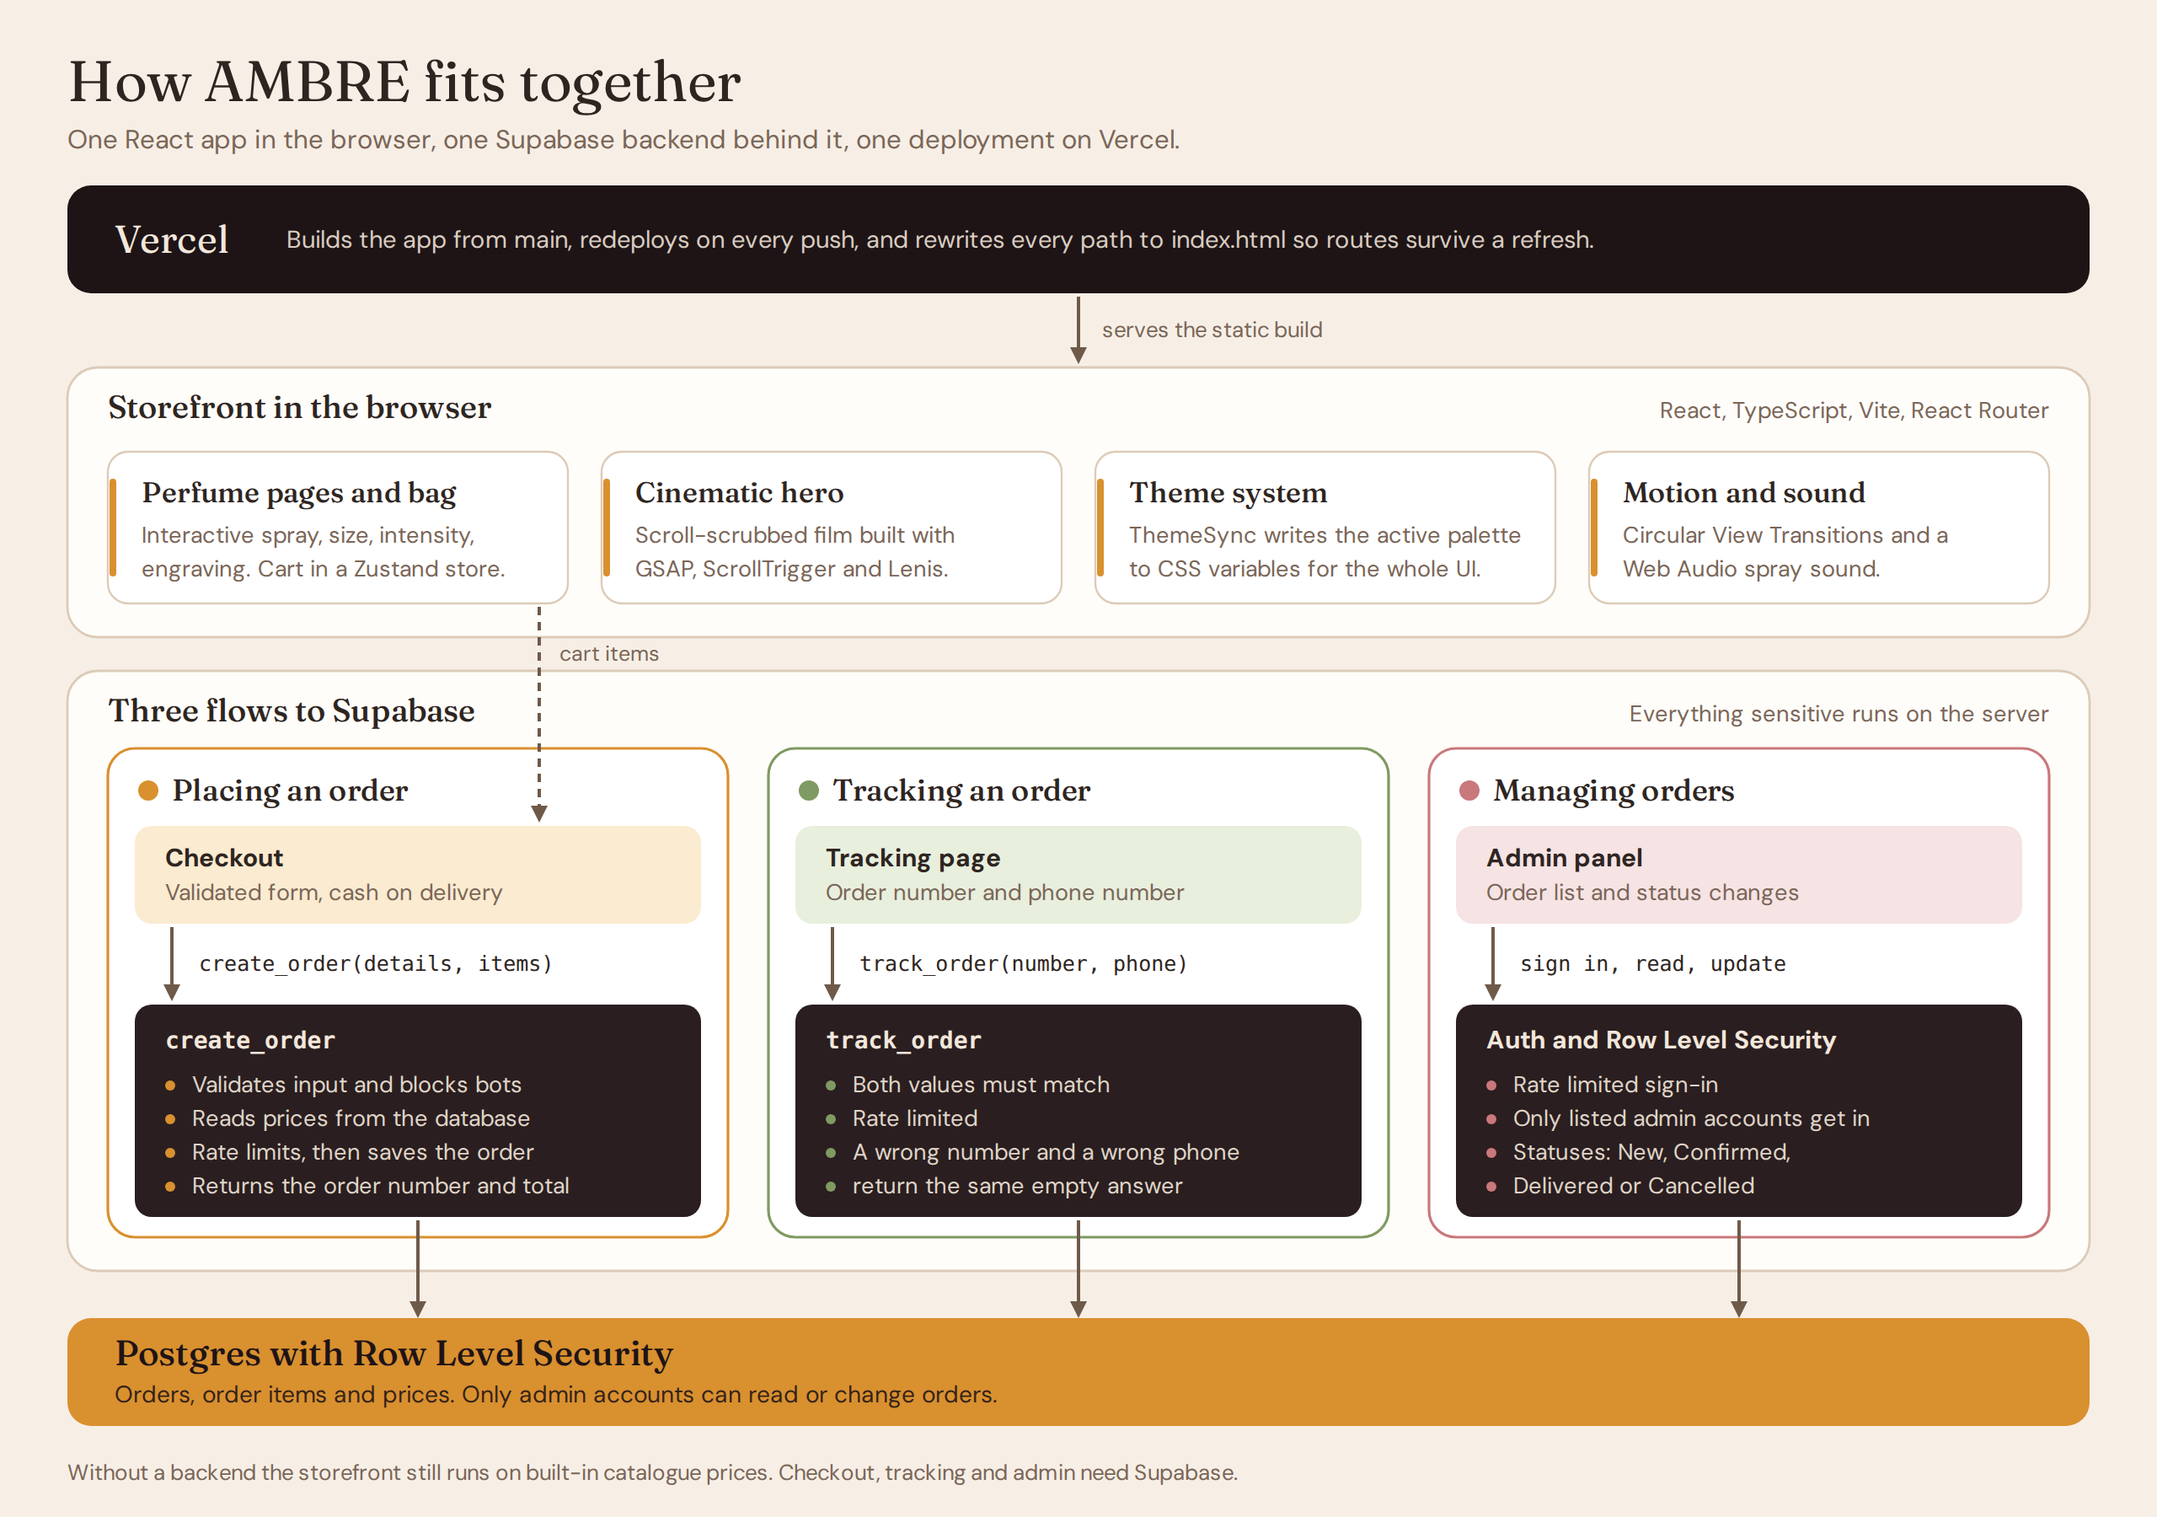
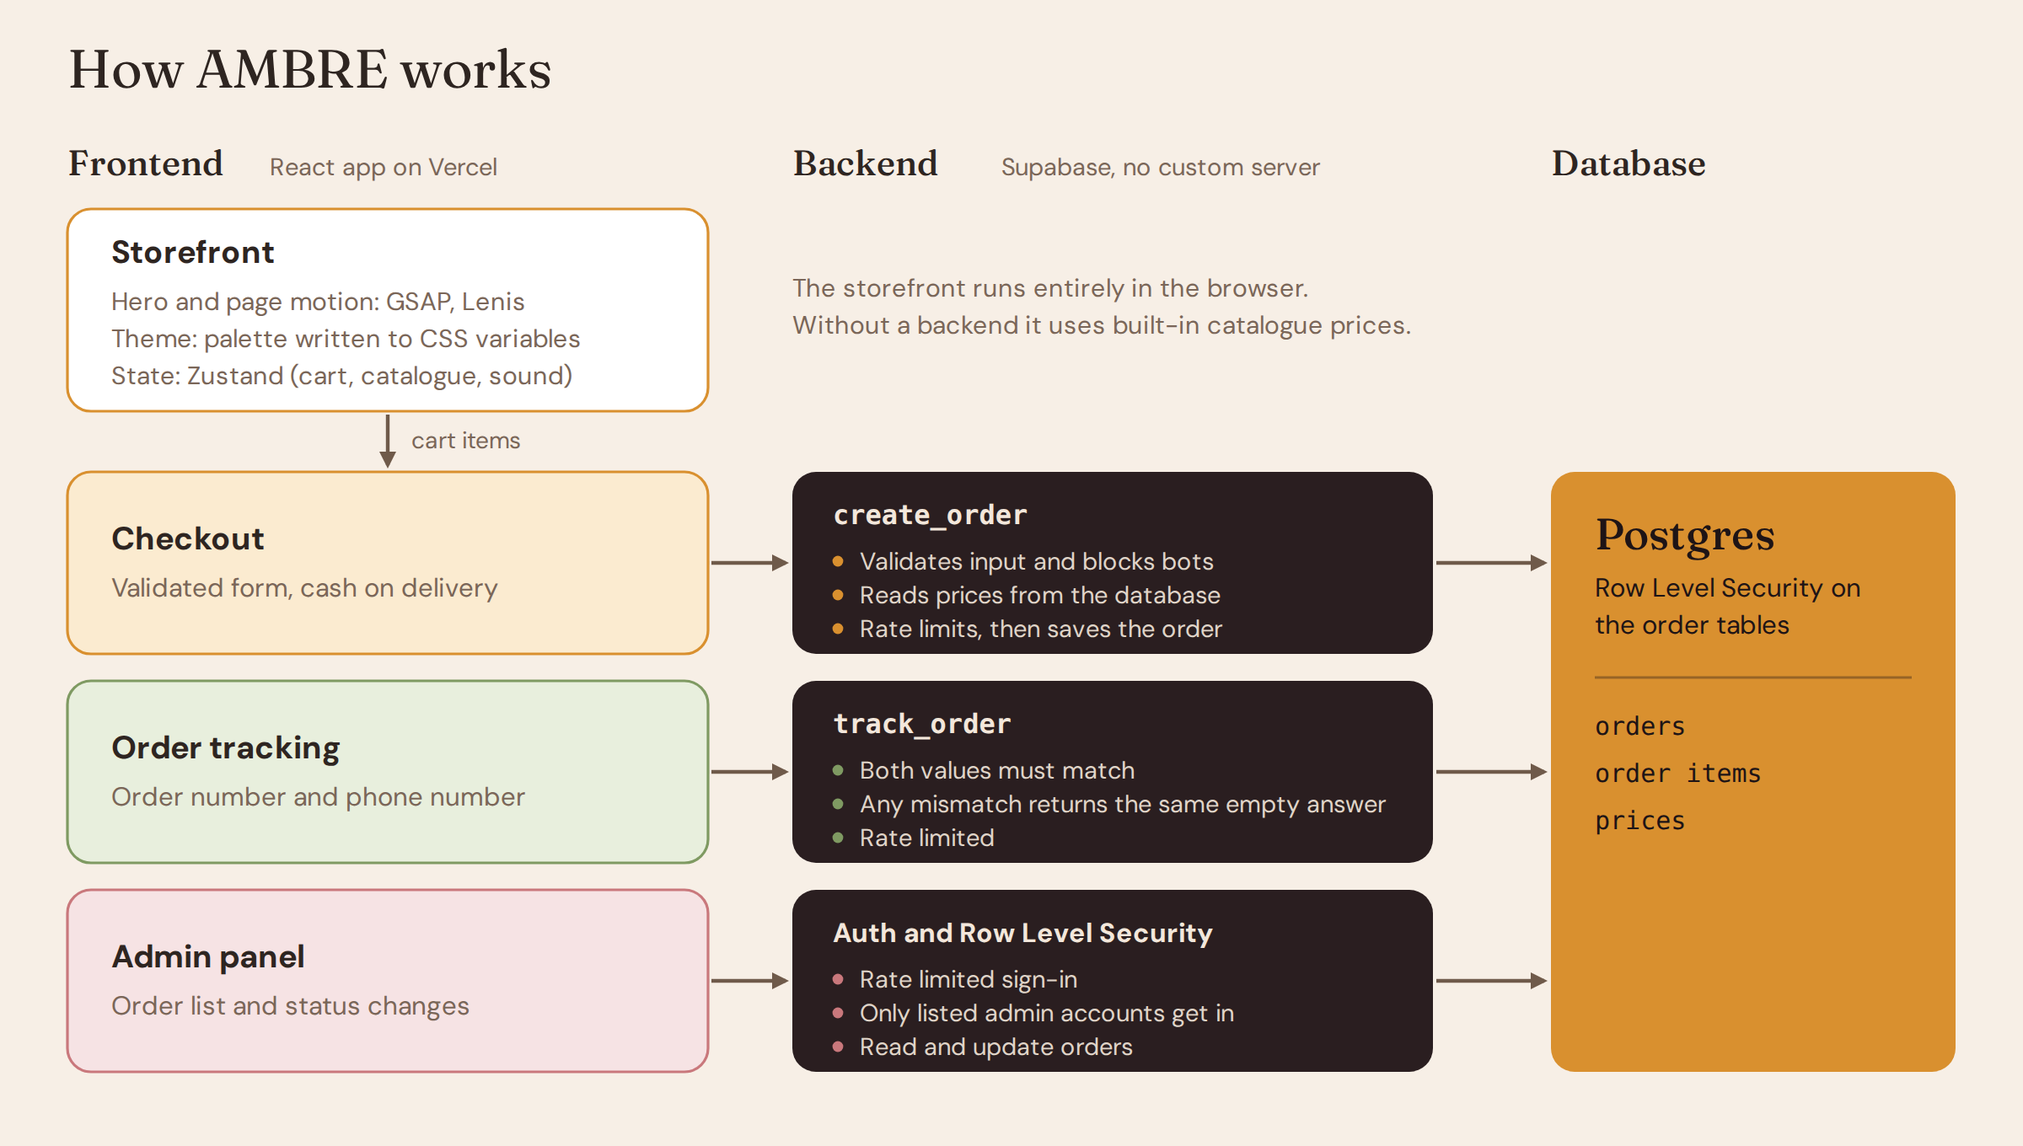
Simplify README and add architecture diagram and demo video

diff --git a/README.md b/README.md
@@ -1,41 +1,31 @@
-
-
-https://github.com/user-attachments/assets/c31eba6f-9962-43fe-9fb8-ec71fe18d07f
-
 <div align="center">
 
+# AMBRE
+
+*Four perfumes, each with its own colour, mood and story.*
+
+A full-stack perfume storefront with a scroll-driven cinematic front end<br />and a secure, server-side order pipeline.
+
 <a href="https://perfumes-website-three.vercel.app">
-  <img src="docs/brand/banner.png" alt="AMBRE: four perfumes, each with its own colour, mood and story" width="100%" />
+  <img src="https://img.shields.io/badge/Live_demo-perfumes--website--three.vercel.app-1E1416?style=for-the-badge&logo=vercel&logoColor=white" alt="Live demo" />
 </a>
 
 <br />
 <br />
 
-<p><b>A cinematic perfume storefront with a scroll-driven hero, a theme that changes with every perfume,<br />and a secure order pipeline behind it.</b></p>
-
-<p>
-  <a href="https://perfumes-website-three.vercel.app">
-    <img src="https://img.shields.io/badge/Live_demo-perfumes--website--three.vercel.app-1E1416?style=for-the-badge&logo=vercel&logoColor=white" alt="Live demo" />
-  </a>
-</p>
-
-<p>
-  <img src="https://img.shields.io/badge/React-61DAFB?style=flat-square&logo=react&logoColor=white" alt="React" />
-  <img src="https://img.shields.io/badge/TypeScript-3178C6?style=flat-square&logo=typescript&logoColor=white" alt="TypeScript" />
-  <img src="https://img.shields.io/badge/Vite-8-646CFF?style=flat-square&logo=vite&logoColor=white" alt="Vite" />
-  <img src="https://img.shields.io/badge/GSAP-88CE02?style=flat-square&logo=greensock&logoColor=black" alt="GSAP" />
-  <img src="https://img.shields.io/badge/Supabase-3ECF8E?style=flat-square&logo=supabase&logoColor=white" alt="Supabase" />
-  <img src="https://img.shields.io/badge/Vercel-000000?style=flat-square&logo=vercel&logoColor=white" alt="Vercel" />
-  <img src="https://img.shields.io/github/last-commit/omniaalessawy247-hash/perfumes-website?style=flat-square" alt="Last commit" />
-</p>
+<img src="https://img.shields.io/badge/React-61DAFB?style=flat-square&logo=react&logoColor=white" alt="React" />
+<img src="https://img.shields.io/badge/TypeScript-3178C6?style=flat-square&logo=typescript&logoColor=white" alt="TypeScript" />
+<img src="https://img.shields.io/badge/Vite-8-646CFF?style=flat-square&logo=vite&logoColor=white" alt="Vite" />
+<img src="https://img.shields.io/badge/GSAP-88CE02?style=flat-square&logo=greensock&logoColor=black" alt="GSAP" />
+<img src="https://img.shields.io/badge/Supabase-3ECF8E?style=flat-square&logo=supabase&logoColor=white" alt="Supabase" />
+<img src="https://img.shields.io/badge/Vercel-000000?style=flat-square&logo=vercel&logoColor=white" alt="Vercel" />
 
 <p>
   <a href="#overview">Overview</a> ·
   <a href="#demo">Demo</a> ·
   <a href="#screenshots">Screenshots</a> ·
-  <a href="#the-experience">Experience</a> ·
+  <a href="#features">Features</a> ·
   <a href="#architecture">Architecture</a> ·
-  <a href="#brand-identity">Brand</a> ·
   <a href="#getting-started">Getting started</a> ·
   <a href="#deployment">Deployment</a> ·
   <a href="#roadmap">Roadmap</a>
@@ -47,48 +37,13 @@ https://github.com/user-attachments/assets/c31eba6f-9962-43fe-9fb8-ec71fe18d07f
 
 ## Overview
 
-Most perfume sites show a grid of bottles and stop there. AMBRE treats each perfume as its own world. Opening the page plays a scroll-driven film in which the bottle opens, its notes burst out, and all four perfumes arrive together. From that point on, every perfume carries its own colour, mood and story through the rest of the site.
+AMBRE is a perfume storefront built as a complete product: a cinematic front end, and a small backend that handles orders securely. Four perfumes (AMBRE, WARD, OUD NUIT and JASMIN) each carry their own colour theme across the whole site. Visitors personalise a perfume and order it with cash on delivery, customers track their order, and the owner manages orders from a private admin panel.
 
-<div align="center">
+**Highlights**
 
-| Perfume | Mood | Top · Heart · Base |
-|:---|:---|:---|
-| **AMBRE** | A perfume that opens like golden hour. | Blood orange · Rose · Amber |
-| **WARD** | Soft petals, warm skin. | Pink pepper · Damask rose · White musk |
-| **OUD NUIT** | Smoke, velvet and midnight. | Amber · Oud · Vanilla |
-| **JASMIN** | Fresh petals after the rain. | Green leaves · Sambac jasmine · White musk |
-
-</div>
-
-<br />
-
-<table>
-<tr>
-<td width="33%" valign="top">
-
-**A film, not a hero image**
-
-The landing page is a pinned, scroll-scrubbed sequence built with GSAP and ScrollTrigger. The visitor scrolls and the bottle opens.
-
-</td>
-<td width="33%" valign="top">
-
-**One theme per perfume**
-
-Each perfume owns a palette. A single component writes it to CSS variables, so the header, buttons, glows and backgrounds re-colour together.
-
-</td>
-<td width="33%" valign="top">
-
-**Orders you can trust**
-
-The browser never writes an order. A server-side function validates the request, reads prices from the database and rate limits the caller.
-
-</td>
-</tr>
-</table>
-
-Behind the visuals it is a working shop: a cart, a checkout that creates real cash-on-delivery orders, order tracking for customers, and a private admin panel to process them.
+- **Front-end craft.** A pinned, scroll-scrubbed hero, a theme that changes with every perfume, an interactive spray with synced sound, and circular page transitions.
+- **Server-side trust.** Orders are validated and priced on the server. The browser cannot set a price.
+- **The full loop.** Browse, personalise, order, track and administer, end to end.
 
 <br />
 
@@ -108,157 +63,104 @@ Behind the visuals it is a working shop: a cart, a checkout that creates real ca
 
 <table>
 <tr>
-<td width="50%"><img src="docs/screenshots/perfume-ambr.png" width="100%" alt="AMBRE perfume page" /></td>
-<td width="50%"><img src="docs/screenshots/perfume-ward.png" width="100%" alt="WARD perfume page" /></td>
+<td width="20%"><img src="docs/screenshots/perfume-ambr.png" width="100%" alt="AMBRE perfume page" /></td>
+<td width="20%"><img src="docs/screenshots/perfume-ward.png" width="100%" alt="WARD perfume page" /></td>
+<td width="20%"><img src="docs/screenshots/perfume-oud-nuit.png" width="100%" alt="OUD NUIT perfume page" /></td>
+<td width="20%"><img src="docs/screenshots/perfume-jasmin.png" width="100%" alt="JASMIN perfume page" /></td>
+<td width="20%"><img src="docs/screenshots/checkout.png" width="100%" alt="Checkout" /></td>
 </tr>
 <tr>
 <td align="center"><sub><b>AMBRE</b></sub></td>
 <td align="center"><sub><b>WARD</b></sub></td>
-</tr>
-<tr>
-<td width="50%"><img src="docs/screenshots/perfume-oud-nuit.png" width="100%" alt="OUD NUIT perfume page" /></td>
-<td width="50%"><img src="docs/screenshots/perfume-jasmin.png" width="100%" alt="JASMIN perfume page" /></td>
-</tr>
-<tr>
 <td align="center"><sub><b>OUD NUIT</b></sub></td>
 <td align="center"><sub><b>JASMIN</b></sub></td>
+<td align="center"><sub><b>Checkout</b></sub></td>
 </tr>
 </table>
 
-<div align="center">
-  <img src="docs/screenshots/checkout.png" width="50%" alt="Checkout" />
-  <br /><sub><b>Checkout</b></sub>
-</div>
-
 <br />
 
-## The experience
+## Features
 
-| Stage | What happens |
-|:---|:---|
-| **Hero** | A pinned, scroll-scrubbed film. The bottle opens, notes burst out and are named, then all four perfumes arrive and write *Four perfumes. Four moods.* |
-| **Collection** | The four perfumes, each previewed in its own colours. Moving between them re-colours the whole interface, and pages change with a circular View Transition. |
-| **Perfume page** | Tap the bottle to spray. The mist and the sound start on the same beat, rapid taps layer, and sound can be muted from the header. |
-| **Personalise** | Choose a size, set the intensity (Eau Fraîche, Eau de Parfum or Extrait), and add an engraving or gift wrap. |
-| **Bag and checkout** | A slide-in bag, a validated checkout and cash-on-delivery orders. |
-| **Tracking** | Customers look up an order with the order number and phone number together. |
-| **Admin** | The owner signs in, sees every order, opens the details and moves it through New, Confirmed, Delivered or Cancelled. |
+<table>
+<tr>
+<td valign="top" width="33%">
 
-Visitors who prefer reduced motion get the site without the heavy animation.
+**Storefront**
+
+- Cinematic hero: the bottle opens, notes burst out, four perfumes arrive
+- A theme per perfume
+- Interactive spray with synced sound
+- Circular page transitions
+- Reduced motion supported
+
+</td>
+<td valign="top" width="33%">
+
+**Ordering**
+
+- Size, intensity, engraving and gift wrap
+- Slide-in bag
+- Validated checkout, cash on delivery
+- Order tracking by order number and phone number
+
+</td>
+<td valign="top" width="33%">
+
+**Admin**
+
+- Private sign-in
+- Order list with full details
+- Status changes: New, Confirmed, Delivered, Cancelled
+
+</td>
+</tr>
+</table>
 
 <br />
 
 ## Architecture
 
 <div align="center">
-  <img src="docs/architecture.png" alt="AMBRE system architecture: Vercel serves the React storefront, which calls Supabase server functions that read and write Postgres" width="100%" />
+  <img src="docs/architecture.png" alt="AMBRE architecture: a React storefront on Vercel calls Supabase server functions, which read and write Postgres with Row Level Security" width="100%" />
 </div>
 
 <br />
 
-**How an order travels**
+### Frontend
 
-1. Checkout sends the customer details and the cart items to the `create_order` function.
-2. The function validates the input and blocks bots.
-3. It reads every price from the database. A total computed in the browser is never trusted.
-4. It applies the rate limit, saves the order and returns the order number and total.
-5. Later, the tracking page calls `track_order` with the order number and phone number. If either is wrong, nothing comes back.
+- **Stack.** React and TypeScript on Vite, with React Router for routes.
+- **Theming.** Each perfume defines five colour values: background, text, accent, liquid and name colour. A small component, `ThemeSync`, writes the active palette to CSS variables on every route change, so no other component needs to know which perfume is showing. Type is set in Fraunces and DM Sans.
+- **Motion.** GSAP and ScrollTrigger drive the pinned hero, Lenis handles smooth scrolling, and the View Transitions API provides circular page transitions. Heavy animation is skipped for visitors who prefer reduced motion.
+- **State.** Zustand holds the cart, the catalogue and the sound setting.
+- **Sound.** The Web Audio API plays the spray sound on the same beat as the mist, and rapid taps layer.
 
-**Security model**
+### Backend
 
-- Row Level Security is enabled on the order tables. Only accounts listed as admins can read or change orders.
-- Prices are read from the database when an order is created, so a tampered browser cannot change a total.
-- Order creation, order tracking and admin sign-in are rate limited.
-- A wrong order number and a wrong phone number return the same empty answer, so neither can be probed on its own.
+The backend is Supabase (Postgres and Auth) with no custom server. Business logic lives in server-side functions that the browser calls.
 
-**One theme, one source.** Each perfume owns its palette. A small component, `ThemeSync`, writes the active palette to CSS variables whenever the route changes. No other component needs to know which perfume is showing.
-
-<br />
-
-## Brand identity
-
-Everything in the interface comes from one small set of tokens, so the site reads as one brand even though it changes colour four times.
-
-<div align="center">
-  <img src="docs/brand/brand-identity.png" alt="AMBRE brand identity: colour palette, typography and voice" width="100%" />
-</div>
-
-<br />
-
-**Colour.** Every perfume defines five values: background, text, accent, liquid and name colour.
-
-| Token | AMBRE | WARD | OUD NUIT | JASMIN |
-|:---|:---:|:---:|:---:|:---:|
-| Background | `#F3E7DB` | `#F1DDD6` | `#1E1416` | `#E9EDDC` |
-| Text | `#2E2521` | `#3A2226` | `#F3E7DB` | `#2A3324` |
-| Accent | `#D9902F` | `#C9787C` | `#C8963E` | `#7F9A62` |
-| Liquid | `#F0C060` | `#E8A5A8` | `#7A2E2E` | `#F4F1D0` |
-| Name colour | `#B9761A` | `#C9636F` | `#6E1F24` | `#7C9A3E` |
-
-**Typography.**
-
-| Role | Font | Weights |
-|:---|:---|:---|
-| Headlines and product names | [Fraunces](https://fonts.google.com/specimen/Fraunces) (serif) | 300 · 400 · 600 · italic |
-| Interface and body copy | [DM Sans](https://fonts.google.com/specimen/DM+Sans) (sans-serif) | 400 · 500 · 700 |
-
-**Voice.** Short, warm and sensory: *Open the hour.* · *Every hour has its scent.* · *Four perfumes. Four moods.*
-
-**Motion.** Two easing curves are used throughout: `cubic-bezier(0.7, 0, 0.2, 1)` for transitions and `cubic-bezier(0.16, 1, 0.3, 1)` for arrivals.
+- **`create_order`.** Validates the input, blocks bots, reads every price from the database, applies a rate limit and saves the order. The browser never inserts an order directly, so a tampered client cannot change a total.
+- **`track_order`.** Needs the order number and the phone number together. A wrong number and a wrong phone return the same empty answer, so neither can be probed on its own.
+- **Access control.** Row Level Security is enabled on the order tables, and only accounts listed as admins can read or change orders. Order creation, tracking and admin sign-in are rate limited.
+- **Fallback.** Without a backend the storefront still runs on built-in catalogue prices.
 
 <br />
 
 ## Tech stack
 
-<table>
-<tr>
-<td valign="top" width="25%">
-
-**Frontend**
-- React, TypeScript, Vite
-- React Router
-- Zustand (cart, catalogue, sound)
-- Plain CSS with design tokens
-
-</td>
-<td valign="top" width="25%">
-
-**Motion and sound**
-- GSAP and ScrollTrigger
-- Lenis smooth scrolling
-- Framer Motion
-- View Transitions API
-- Web Audio API
-
-</td>
-<td valign="top" width="25%">
-
-**Backend**
-- Supabase (Postgres and Auth)
-- Row Level Security
-- Server-side functions (RPC) for orders and tracking
-
-</td>
-<td valign="top" width="25%">
-
-**Hosting**
-- Vercel
-- Static build with SPA rewrites
-
-</td>
-</tr>
-</table>
+| Layer | Tools |
+|:---|:---|
+| Frontend | React, TypeScript, Vite, React Router, plain CSS with design tokens |
+| Motion and sound | GSAP, ScrollTrigger, Lenis, Framer Motion, View Transitions API, Web Audio API |
+| State | Zustand |
+| Backend | Supabase (Postgres, Auth, Row Level Security, RPC functions) |
+| Hosting | Vercel |
 
 <br />
 
 ## Getting started
 
-### Prerequisites
-
-- Node.js 20.19 or newer
-- A Supabase project (optional, see the note below)
-
-### Run locally
+**Prerequisites:** Node.js 20.19 or newer. A Supabase project is optional, see the note below.
 
 ```bash
 git clone https://github.com/omniaalessawy247-hash/perfumes-website.git
@@ -268,8 +170,6 @@ npm run dev
 ```
 
 The app opens at `http://localhost:5173`.
-
-### Environment variables
 
 Create a `.env.local` file in the project root:
 
@@ -282,7 +182,7 @@ The publishable key is designed to be public. Never put a `service_role` key in 
 
 > The database schema and security policies are kept outside this repository. Without a backend the storefront still runs, using built-in catalogue prices. Checkout, order tracking and the admin panel need a configured Supabase project.
 
-### Build
+To create a production build:
 
 ```bash
 npm run build
@@ -296,9 +196,9 @@ npm run preview
 The site is deployed on Vercel from the `main` branch, and every push redeploys it.
 
 1. Import the repository in Vercel. The Vite preset is detected automatically (build command `npm run build`, output directory `dist`).
-2. Add `VITE_SUPABASE_URL` and `VITE_SUPABASE_PUBLISHABLE_KEY` under **Environment Variables**. Vite bakes these into the bundle at build time, so redeploy after changing them.
-3. Keep `vercel.json` in the project root. It rewrites every path to `index.html`, so routes such as `/admin` and the tracking page load directly and survive a refresh.
-4. In Supabase, open **Authentication > URL Configuration** and add the Vercel URL to **Site URL** and **Redirect URLs** so admin sign-in works in production. Keep `http://localhost:5173` in the list for local development.
+2. Add `VITE_SUPABASE_URL` and `VITE_SUPABASE_PUBLISHABLE_KEY` under **Environment Variables**. Vite bakes them into the bundle at build time, so redeploy after changing them.
+3. Keep `vercel.json` in the project root. It rewrites every path to `index.html`, so routes such as `/admin` load directly and survive a refresh.
+4. In Supabase, add the Vercel URL under **Authentication > URL Configuration** (Site URL and Redirect URLs) so admin sign-in works in production.
 
 <br />
 
@@ -319,7 +219,7 @@ The site is deployed on Vercel from the `main` branch, and every push redeploys 
 │   ├── hooks/         Smooth scroll, spray sound, page reveal
 │   └── lib/           API, validation and helpers
 ├── public/            Files served as-is
-├── docs/              Screenshots, brand board and architecture diagram
+├── docs/              Screenshots and architecture diagram
 └── vercel.json        SPA rewrites for Vercel
 ```
 
@@ -332,9 +232,3 @@ The site is deployed on Vercel from the `main` branch, and every push redeploys 
 - [ ] Lighter hero for low-end phones
 - [ ] Manage prices and stock from the admin panel
 - [ ] End-to-end tests
-
-<br />
-
-<div align="center">
-<sub>Built with React, GSAP and Supabase</sub>
-</div>
